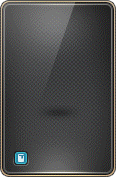
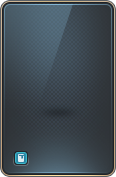
V1.8.0 聯盟戰地改版，暫時不支援1920x1080

diff --git a/mylibrary.js b/mylibrary.js
@@ -2,15 +2,14 @@ Number.prototype.padStart = function (...args) { return this.toString().padStart
 Number.prototype.padEnd = function (...args) { return this.toString().padEnd(...args); };
 
 String.prototype.Clear0 = function () { return this.replace(/\.0*$|(?<=\.\d*[1-9])0+$/, ''); };
-String.prototype.forEach = function (cb = () => { }) { this.split(/(?:)/u).forEach(cb); };
+String.prototype.forEach = function (cb = () => { }) { [...this].forEach(cb); };
 
 Array.prototype.random = function () { return this.length <= 0 ? null : this[Math.floor(Math.random() * this.length)]; };
 Array.prototype.draw = function () { return this.length <= 0 ? null : this.splice(Math.floor(Math.random() * this.length), 1)[0]; };
 Array.prototype.promiseMap = function (cb = async v => v) { return Promise.all(this.map(cb)) };
 
-Object.prototype.entries = function () { return Object.entries(this); };
-Object.prototype.forEach = function (cb = () => { }) { this.entries().forEach(([k, v]) => cb(v, k)); };
-Object.prototype.some = function (cb = () => { }) { return this.entries().some(([k, v]) => cb(v, k)); };
+Object.forEach = (b, cb) => Object.entries(b).forEach(([k, v]) => cb(v, k));
+Object.some = (b, cb) => Object.entries(b).some(([k, v]) => cb(v, k));
 
 Audio.prototype.replay = function () {
 	this.currentTime = 0;
@@ -46,9 +45,7 @@ function obj2get(obj) {
 let url2obj = () => Object.fromEntries(new URLSearchParams(location.search));
 let obj2url = obj => window.history.pushState({}, 0, location.href.split('?')[0] + obj2get(obj) + location.hash);
 
-let promise = (cb, ...args) => new Promise(r => cb(...args, r));
 let sleep = ms => new Promise(r => setTimeout(r, ms));
-
 let blob2url = URL.createObjectURL;
 let loadfile = (type, url) => fetch(url).then(r => r[type]());
 let loadsound = url => loadfile('blob', url).then(blob => new Audio(blob2url(blob)));
@@ -98,7 +95,12 @@ let svgtext2url = text => blob2url(new Blob([text], { type: 'image/svg+xml' }));
 let svg2url = svg => svgtext2url(xml2text(svg));
 let svg2img = svg => loadimg(svg2url(svg));
 
-let svg2pngurl = svg => svg2img(svg).then(img => new Promise(r => img2canvas(img).toBlob(blob => r(blob2url(blob)))));
+let canvas2blob = canvas => new Promise(r => canvas.toBlob(blob => r(blob)));
+let canvas2url = canvas => canvas2blob(canvas).then(blob => blob2url(blob));
+let canvas2jpgblob = (canvas, quality) => new Promise(r => canvas.toBlob(blob => r(blob), 'image/jpeg', quality));
+let canvas2jpgurl = (canvas, quality) => canvas2jpgblob(canvas, quality).then(blob => blob2url(blob));
+
+let svg2pngurl = svg => svg2img(svg).then(img => canvas2url(img2canvas(img)));
 let png2base64 = src => loadimg(src).then(img => img2canvas(img).toDataURL());
 
 function startDownload(url, name) {

diff --git a/img/card.js b/img/card.js
@@ -7,10 +7,10 @@ let reg = [],
 		size: { w: 116, h: 177 },
 		spacing: 122,
 		seat: {
-			'1024x768': { x: 70, y: 563 },
-			'1280x720': { x: 198, y: 539 },
-			'1366x768': { x: 241, y: 563 },
-			'1920x1080': { x: 518, y: 719 }
+			'1024x768': { x: 73, y: 548, m: 1 },
+			'1280x720': { x: 201, y: 524, m: 1 },
+			'1366x768': { x: 244, y: 548, m: 1 },
+			'1920x1080': { x: 344, y: 772, m: 0.7 }
 		},
 		name: [
 			'null',
@@ -88,7 +88,7 @@ function createcard(classname) {
 }
 
 let tmppromise = Object.fromEntries(data.name.concat(data.allname).map(v => [v, loadimg(`img/card/${v}.png`)]));
-for (let [key] of tmppromise.entries()) {
+for (let [key] of Object.entries(tmppromise)) {
 	let img = await tmppromise[key];
 	let canvas = tmp[key] = createcard();
 	let ctx = canvas.getContext('2d');
@@ -103,7 +103,7 @@ document.querySelector('style').innerHTML += ['cross', 'download', 'jobchange', 
 function createmaskurl(x, y, w, h) {
 	let canvas = createcard();
 	canvas.getContext('2d').drawImage(tmp.card, x, y, w, h, x, y, w, h);
-	return new Promise(r => canvas.toBlob(blob => r(blob2url(blob))));
+	return canvas2url(canvas);
 }
 
 damagepng = await createmaskurl(0, 130, data.size.w, 17);
@@ -248,7 +248,7 @@ function style(x, y) {
 		}
 	};
 	let download = createimg('download', 'img/download.svg', lang.download);
-	download.onclick = () => ref.tocanvas().toBlob(blob => startDownload(blob2url(blob), 'role.png'));
+	download.onclick = async () => startDownload(await canvas2url(ref.tocanvas()), 'role.png');
 	button.append(download);
 
 	changejob(findjob(card));

diff --git a/role.js b/role.js
@@ -252,8 +252,9 @@ function mergeimg() {
 	}
 	return canvas;
 }
-let downloadallpng = () => mergeimg().toBlob(blob => startDownload(blob2url(blob), 'roleall.png'));
-let downloadalljpg = () => mergeimg().toBlob(blob => startDownload(blob2url(blob), 'roleall.jpg'), 'image/jpeg', Number(jpgquality.value));
+
+let downloadallpng = () => canvas2url(mergeimg()).then(url => startDownload(url, 'roleall.png'));
+let downloadalljpg = () => canvas2jpgurl(mergeimg(), Number(jpgquality.value)).then(url => startDownload(url, 'roleall.jpg'));
 
 export default {
 	loadroleimg,

diff --git a/main.css b/main.css
@@ -146,7 +146,7 @@ input[type="button"] {
 }
 
 #layout {
-	background: #444;
+	background: #456;
 	left      : 10px;
 	top       : 110px;
 }
